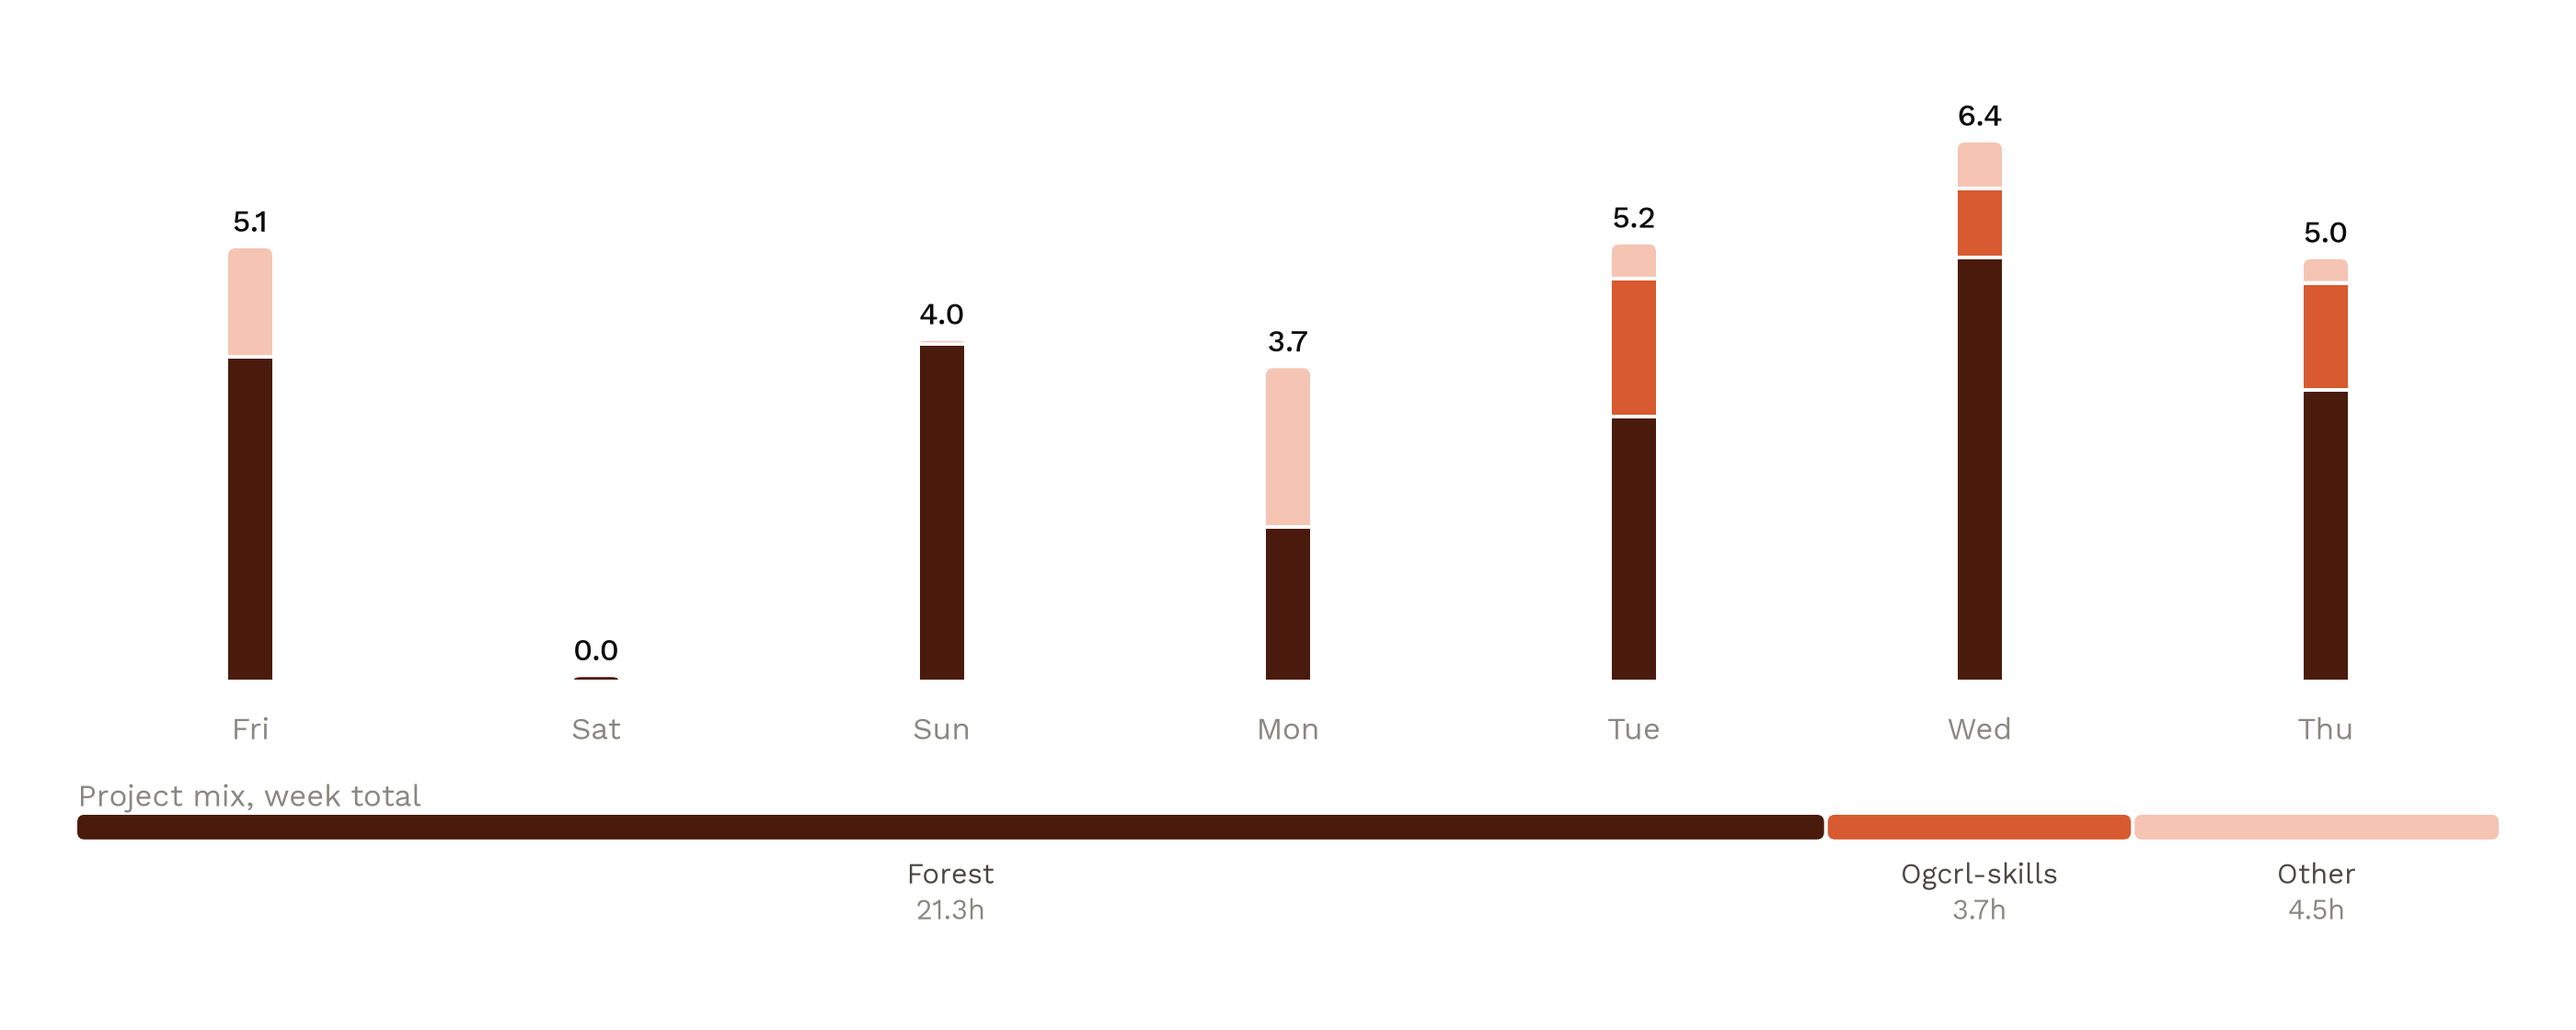
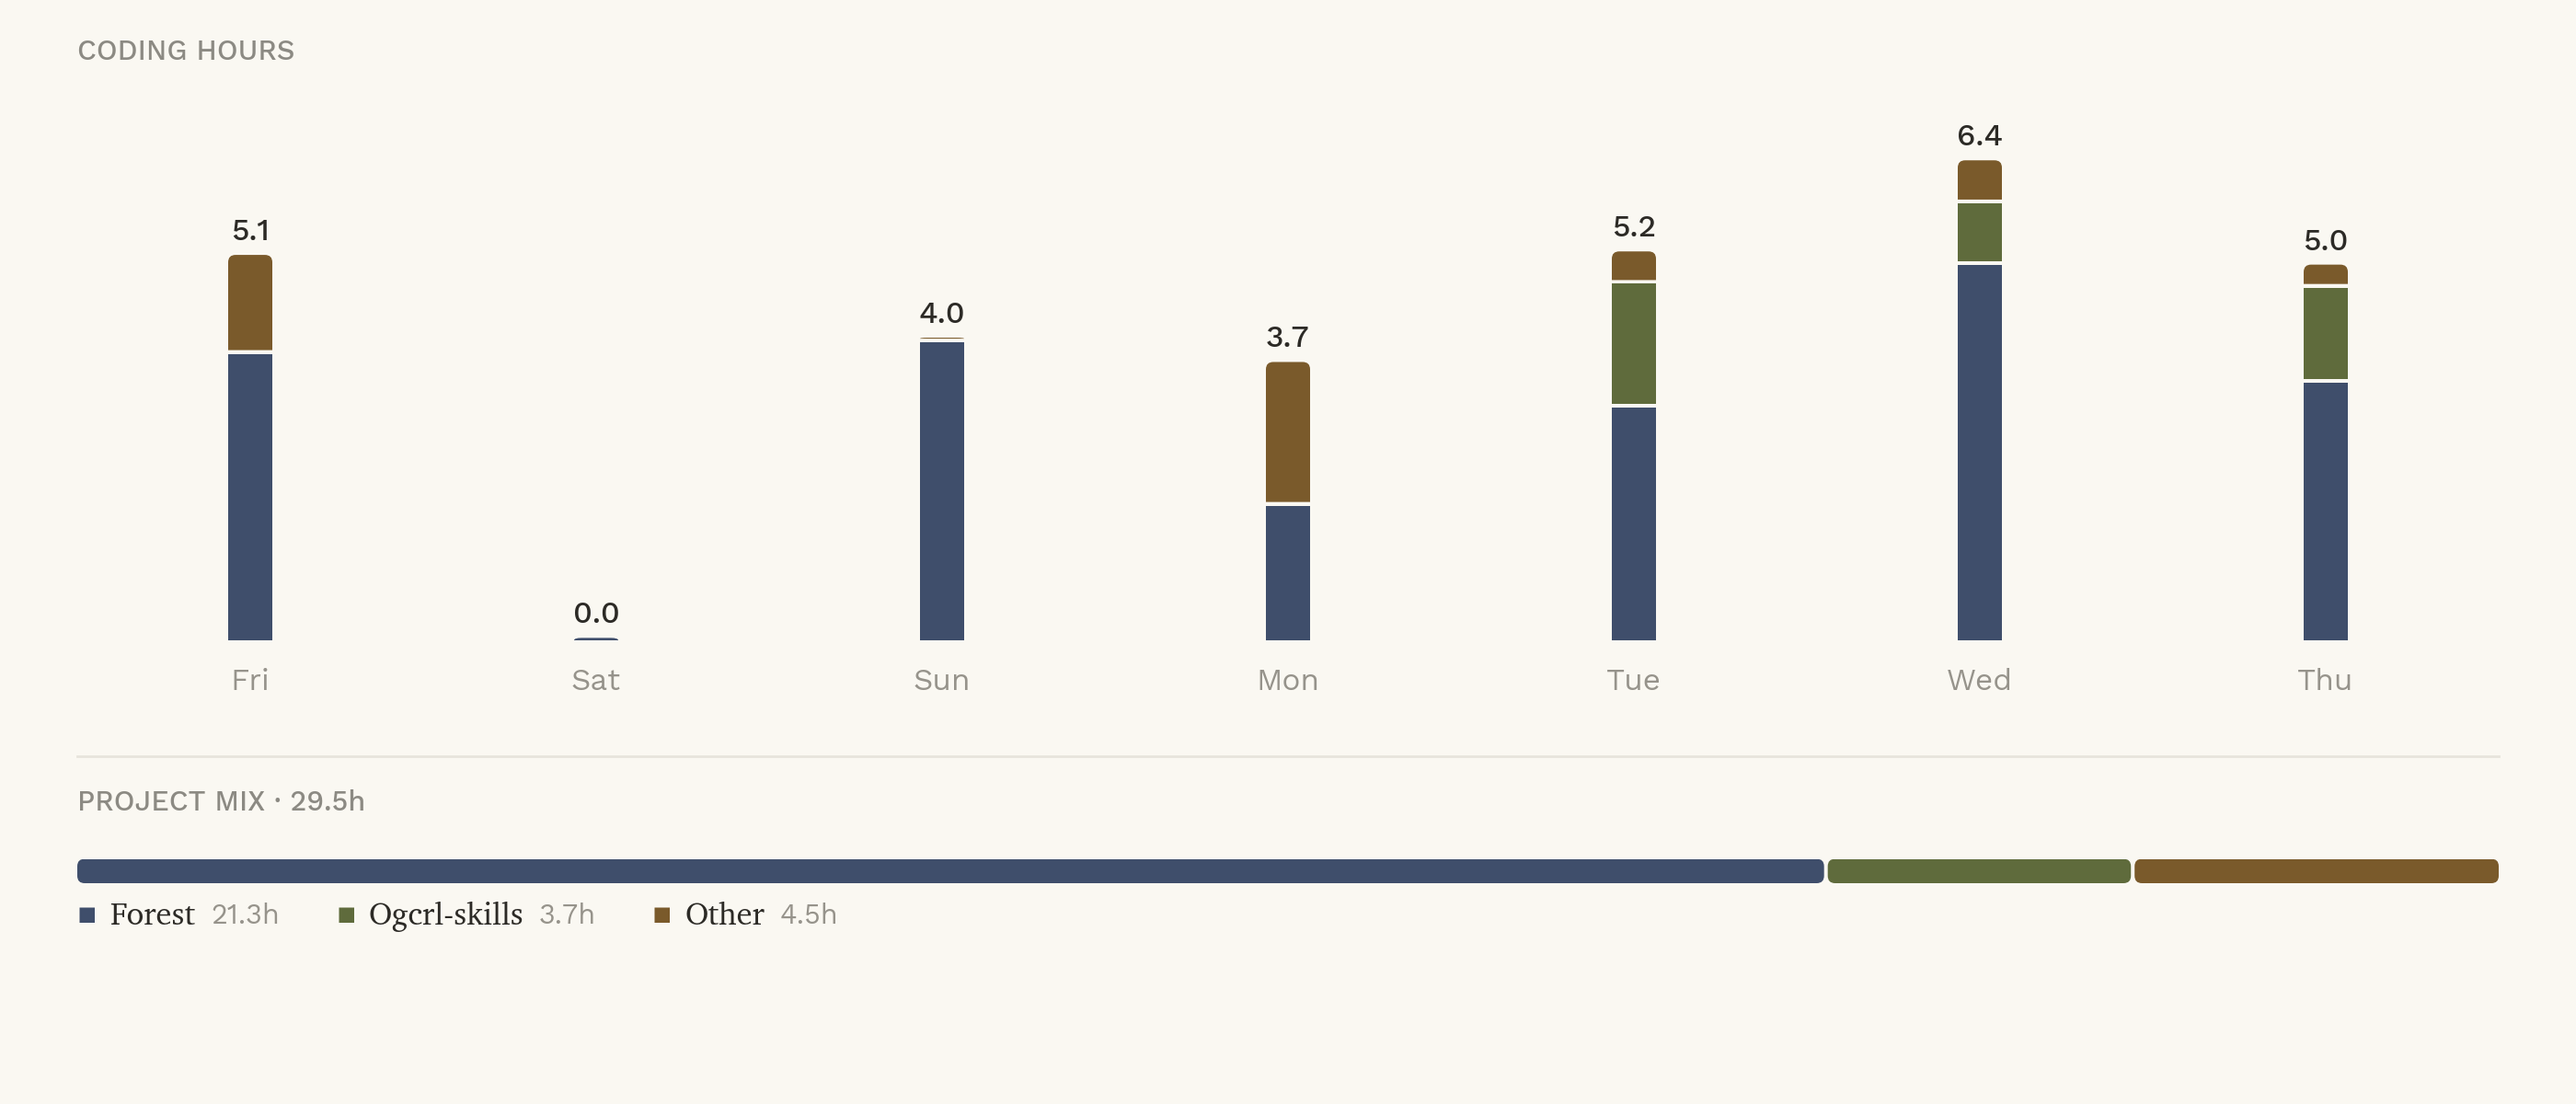
Retheme weekly-review figures to the site's vellum palette
Recolour the weekly figures (coding, arbtt, running+habits, sleep) from
the old coral/blue palettes to the warm site palette: cream ground, muted
greys, brown/olive/tan accents. Coding uses categorical project hues
(slate/olive/brown); arbtt keeps an ordered brown intensity ramp.

- Section labels + hairline separators on the coding and arbtt cards
  (CODING HOURS / PROJECT MIX, SCREEN TIME / ACTIVITY MIX), with the
  project/bucket mix as a left-aligned serif legend.
- Running is now a vertical stack: mileage on top, the habit grid on the
  bottom-left with single-letter day headers, serif labels, and
  rectangular (wider-than-tall) cells.
- Serif "voice" (XCharter) for project/bucket/habit names.
- Add --thursday to coding and running (and hgrid.fetch) so any past week
  re-renders from its own data, matching arbtt-plot.

Regenerate the figures for 2026-W29, W30, and W33.

diff --git a/weekly/hgrid.py b/weekly/hgrid.py
@@ -30,15 +30,17 @@ KEY_FILE = os.path.join(
 )
 DOW = ["Fri", "Sat", "Sun", "Mon", "Tue", "Wed", "Thu"]  # review week: Fri -> Thu
 
-INK = "#0b0b0b"          # primary — the outlier day count only
-SECONDARY = "#4a4742"    # habit labels
-MUTED = "#898781"        # day labels + counts
-HIT = "#C0522C"          # completed cell (solid coral, shares the running palette)
-MISS_FILL = "#F6E7DF"    # not-completed cell fill (light warm tint)
-HAIRLINE = (11 / 255, 11 / 255, 11 / 255, 0.12)  # inset outline on miss cells
+INK = "#2c2a26"          # primary — the outlier day count only
+SECONDARY = "#2c2a26"    # habit labels
+MUTED = "#96938b"        # day labels + counts
+HIT = "#5f6b3c"          # completed cell (olive green, site palette)
+MISS_FILL = "#faf8f2"    # not-completed cell fill (cream — reads as empty)
+HAIRLINE = "#ded9cc"     # warm-gray outline on miss cells
 
-CELL = 0.86
-RADIUS = 0.11
+CELL_W = 0.86      # box width (fraction of the unit column pitch)
+CELL_H = 0.62      # box height — shorter than wide, a squished rectangle
+ROW_PITCH = 0.78   # vertical gap between rows (< 1, so rows sit closer)
+RADIUS = 0.08      # corner radius, in data units
 
 
 def get_key():
@@ -76,13 +78,15 @@ def fetch_journal(key, day, retries=5):
             time.sleep(wait)
 
 
-def fetch():
-    """The current review week's records (one row per scheduled habit-day)."""
-    today = date.today()
+def fetch(thursday=None):
+    """A review week's records (one row per scheduled habit-day). Defaults to the
+    current review week; pass a Thursday to fetch a past week's habits."""
     # The review week runs Friday -> Thursday and ends on the most recent
     # Thursday, so a mid-week run shows the last completed week, never today's
     # partial day.
-    thursday = today - timedelta(days=((today.weekday() - 3) % 7 or 7))
+    if thursday is None:
+        today = date.today()
+        thursday = today - timedelta(days=((today.weekday() - 3) % 7 or 7))
     start = thursday - timedelta(days=6)  # the preceding Friday
     key = get_key()
     records = []
@@ -101,9 +105,9 @@ def _sentence_case(s):
     return s[:1].upper() + s[1:].lower() if s else s
 
 
-def _cell(ax, ci, ri, fc, ec, lw):
+def _cell(ax, ci, yc, fc, ec, lw):
     ax.add_patch(FancyBboxPatch(
-        (ci - CELL / 2, ri - CELL / 2), CELL, CELL,
+        (ci - CELL_W / 2, yc - CELL_H / 2), CELL_W, CELL_H,
         boxstyle=f"round,pad=0,rounding_size={RADIUS}",
         mutation_aspect=1, facecolor=fc, edgecolor=ec, linewidth=lw, zorder=3,
     ))
@@ -112,7 +116,7 @@ def _cell(ax, ci, ri, fc, ec, lw):
 def draw(ax, df, label_fontsize=12):
     """Render the grid onto `ax`. `ax` is left cleared of spines/ticks."""
     ax.set_aspect("equal")
-    ax.set_anchor("C")   # centre the grid vertically so it aligns with running
+    ax.set_anchor("W")   # hug the left — the grid sits bottom-left under the plot
     ax.axis("off")
 
     if df is None or df.empty:
@@ -128,14 +132,16 @@ def draw(ax, df, label_fontsize=12):
     med = statistics.median(col_done)
 
     ncol, nrow = len(DOW), len(order)
+    y_bottom = (nrow - 1) * ROW_PITCH          # y-centre of the last habit row
     ax.set_xlim(-0.5, ncol - 0.5)
-    ax.set_ylim(nrow - 0.5 + 1.5, -1.35)      # inverted; day row above, counts below
+    # inverted y: the day-initial row sits above the grid, the counts below it.
+    ax.set_ylim(y_bottom + 1.15, -1.15)
 
-    y_day = -0.92
-    y_count = nrow - 0.5 + 0.55
+    y_day = -0.72
+    y_count = y_bottom + 0.72
 
     for ci, day in enumerate(DOW):
-        ax.text(ci, y_day, day, ha="center", va="center", fontsize=12,
+        ax.text(ci, y_day, day[0], ha="center", va="center", fontsize=12,
                 color=MUTED)
         outlier = (med - col_done[ci]) > 2
         ax.text(ci, y_count, str(col_done[ci]), ha="center", va="center",
@@ -143,13 +149,15 @@ def draw(ax, df, label_fontsize=12):
                 color=INK if outlier else MUTED)
 
     for ri, habit in enumerate(order):
+        yc = ri * ROW_PITCH
         for ci, day in enumerate(DOW):
             v = hit.loc[habit, day]
             if pd.isna(v):
                 continue
             if v >= 1:
-                _cell(ax, ci, ri, HIT, "none", 0)
+                _cell(ax, ci, yc, HIT, "none", 0)
             else:
-                _cell(ax, ci, ri, MISS_FILL, HAIRLINE, 1.0)
-        ax.text(ncol - 0.5 + 0.35, ri, _sentence_case(habit), ha="left",
-                va="center", fontsize=label_fontsize, color=SECONDARY)
+                _cell(ax, ci, yc, MISS_FILL, HAIRLINE, 1.0)
+        ax.text(ncol - 0.5 + 0.35, yc, _sentence_case(habit), ha="left",
+                va="center", fontsize=label_fontsize, color=SECONDARY,
+                family="serif")

diff --git a/weekly/wtheme.py b/weekly/wtheme.py
@@ -1,9 +1,9 @@
 """Shared visual theme for the weekly-review figures.
 
-One editorial style for the whole report, modelled on a friendly-academic look:
-a soft humanist font (Lato), the seaborn "deep" blue/green/orange palette, bars
-with a darker same-hue outline and rounded corners, dashed horizontal gridlines,
-arrow-tipped axes, and a bordered legend. The five sibling uv scripts (coding,
+One editorial style for the whole report, keyed to the site's warm "vellum"
+palette: a cream ground, brown/olive/tan accents, bars with a darker same-hue
+outline and rounded corners, dashed horizontal gridlines, arrow-tipped axes,
+and a bordered legend. The five sibling uv scripts (coding,
 running, sleep, arbtt-plot, habitify) import this so the figures look like pages
 of one document.
 
@@ -18,25 +18,26 @@ from matplotlib.colors import LinearSegmentedColormap, to_rgba
 from matplotlib.patches import FancyBboxPatch, Rectangle
 import seaborn as sns
 
-# --- palette: soft, light pastels with a friendly feel -----------------------
-INK = "#555a60"          # titles, primary lines (soft charcoal, never black)
-MUTED = "#7c828a"        # axis + tick labels
-FAINT = "#a3a8af"        # captions, value annotations
-GRID = "#e7e9ec"         # dashed gridlines
-AXIS = "#aeb3ba"         # the arrowed axis lines (light)
-ACCENT = "#7da7dd"       # single-series accent (light blue)
-ACCENT_WARM = "#f0a878"  # contrast line (rolling averages) / soft orange
-OTHER = "#cdd1d6"        # the "Other" bucket / de-emphasised series
+# --- palette: warm "vellum" site tones ---------------------------------------
+CREAM = "#faf8f2"        # the card / page ground everything sits on
+INK = "#2c2a26"          # titles, primary lines (warm near-black)
+MUTED = "#96938b"        # axis + tick labels
+FAINT = "#b0aca3"        # captions, value annotations
+GRID = "#e7e4dc"         # dashed gridlines
+AXIS = "#cfc9bd"         # the arrowed axis lines (warm, light)
+ACCENT = "#7a5a2b"       # single-series accent (brown)
+ACCENT_WARM = "#5f6b3c"  # contrast line (rolling averages) / olive
+OTHER = "#ded9cc"        # the "Other" bucket / de-emphasised series (warm gray)
 
 QUAL = [
-    "#7da7dd",  # light blue
-    "#8fcda5",  # light green
-    "#f3b58a",  # light orange
-    "#ed9aa2",  # light rose
-    "#b7abe0",  # light violet
-    "#8fd3e0",  # light cyan
-    "#e8d595",  # light gold
-    "#c2c7cd",  # light gray
+    "#7a5a2b",  # brown
+    "#5f6b3c",  # olive
+    "#b2926a",  # tan
+    "#9c6b4f",  # terracotta
+    "#8a8567",  # sage
+    "#c2a878",  # sand
+    "#6f7d8c",  # slate (a cool note for relief)
+    "#c9c2b4",  # warm gray
 ]
 
 FONT_STACK = ["Work Sans", "DejaVu Sans", "Arial"]
@@ -48,12 +49,12 @@ def apply():
         "font.family": "sans-serif",
         "font.sans-serif": FONT_STACK,
         "font.size": 11,
-        "figure.facecolor": "white",
+        "figure.facecolor": CREAM,
         "figure.dpi": 150,
-        "savefig.facecolor": "white",
+        "savefig.facecolor": CREAM,
         "savefig.bbox": "tight",
 
-        "axes.facecolor": "white",
+        "axes.facecolor": CREAM,
         "axes.edgecolor": AXIS,
         "axes.linewidth": 1.0,
         "axes.spines.top": False,
@@ -87,8 +88,8 @@ def apply():
         "legend.title_fontsize": 10.5,
         "legend.frameon": True,
         "legend.fancybox": True,
-        "legend.edgecolor": "#dcdee1",
-        "legend.facecolor": "white",
+        "legend.edgecolor": "#e7e4dc",
+        "legend.facecolor": CREAM,
         "legend.framealpha": 1.0,
         "legend.borderpad": 0.6,
         "legend.handlelength": 1.2,
@@ -119,11 +120,11 @@ def darker(c, f=0.82):
 def sequential_cmap():
     """Light→medium blue colormap for heatmaps / continuous shading (airy)."""
     return LinearSegmentedColormap.from_list(
-        "wk_seq", ["#f3f7fd", "#c2d8f0", "#93b8e3", "#5f8ecb"]
+        "wk_seq", ["#f4efe4", "#d9c6a3", "#b2926a", "#7a5a2b"]
     )
 
 
-def shades(n, light="#dbe8f7", dark="#6f9ad0"):
+def shades(n, light="#ece3d2", dark="#7a5a2b"):
     """n ordered colors between two endpoints (for ordinal stacks, e.g. sleep)."""
     cmap = LinearSegmentedColormap.from_list("wk_shades", [light, dark])
     if n == 1:

diff --git a/notes-log.md b/notes-log.md
@@ -576,7 +576,6 @@ This file is generated by `scripts/registry` (run automatically by
 - 2026-08-03 · `note` · [QTSW](trees/evergreen/QTSW.tree) — MESI in Murphi
 - 2026-08-05 · `note` · [KZR4](trees/evergreen/KZR4.tree) — [Scaling Book](scaling-book): Exercises
 - 2026-08-05 · `note` · [LEM3](trees/evergreen/LEM3.tree) — Kellen's favorite quotes
-- 2026-08-05 · `note` · [RCNT](trees/evergreen/RCNT.tree) — What I've been thinking about
 - 2026-08-06 · `note` · [TAAK](trees/evergreen/TAAK.tree) — Notebook: [[scaling-book]]
 - 2026-08-07 · `blog` · [1PZ2](trees/evergreen/1PZ2.tree) — Unpacking [Ragged Paged Attention](jiangRaggedPagedAttention2026)
 - 2026-08-07 · `note` · [NR79](trees/evergreen/NR79.tree) — Lifecycle of a JAX program
@@ -588,4 +587,5 @@ This file is generated by `scripts/registry` (run automatically by
 - 2026-08-11 · `def` · [GA8T](trees/evergreen/GA8T.tree) — TPU memory hierarchy
 - 2026-08-11 · `def` · [IO2I](trees/evergreen/IO2I.tree) — TPU memory hierarchy
 - 2026-08-11 · `def` · [SXP6](trees/evergreen/SXP6.tree) — Systolic array
-- 2026-08-12 · `note` · [4TCT](trees/evergreen/4TCT.tree) — (untitled)
+- 2026-08-12 · `note` · [RCNT](trees/evergreen/RCNT.tree) — What I've been thinking about
+- 2026-08-12 · `def` · [SJL3](trees/evergreen/SJL3.tree) — Semaphore
